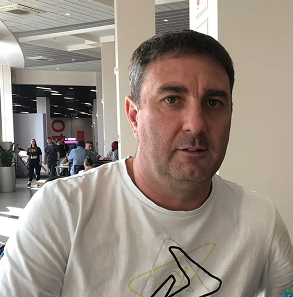
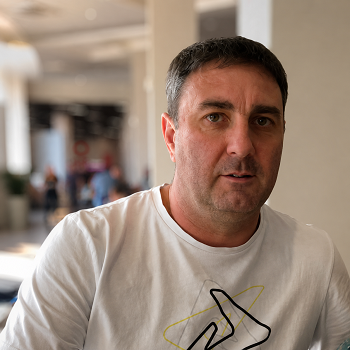
Real reviews, footer cleanup, hero parallax, updated host photo
- Swap placeholder reviews for 4 real guest reviews (3 Avito, 1 Cian); add Cian as a review source option
- Footer: align "Дом в роще" badge with header treatment, redesign emergency contacts box (2-column, line icons instead of emoji), widen nav column, rebalance grid spans
- Purge remaining "A-frame" mentions across gallery titles, hero alt/subhead, FAQ, mobile drawer — replaced with "треугольный" (factual) or the "Дом в роще" badge (brand mark)
- FinalCTA: heading now "Узнать свободные даты"
- Hero: scroll-linked parallax on the background image (image lags behind scrolling content), respects prefers-reduced-motion
- Update Sergey's photo (latest version)
- Rebuilt single-file index.html

diff --git a/src/data.ts b/src/data.ts
@@ -6,14 +6,14 @@ export const galleryPhotos: GalleryItem[] = [
     id: '1',
     url: '@HERO@',
     category: 'exterior',
-    title: 'Репка: A-frame и баня',
+    title: 'Репка: дом в роще и баня',
     description: 'Весь комплекс на одном кадре: треугольный домик, баня и просторная деревянная терраса среди берёз.'
   },
   {
     id: '2',
     url: '@FACADE@',
     category: 'exterior',
-    title: 'Фасад A-frame Репка',
+    title: 'Треугольный фасад Репки',
     description: 'Классический треугольный фасад с панорамным окном — визитная карточка домика.'
   },
   {
@@ -241,39 +241,39 @@ export const amenitiesList: Amenity[] = [
 export const reviewsList: Review[] = [
   {
     id: 'r1',
-    name: 'Екатерина',
-    date: 'Май 2026',
-    source: 'Авито',
-    rating: 5,
-    text: 'Восхитительное место! Березовая роща прямо под окном — это что-то невероятное. Утром выходишь на террасу с кофе, а кругом тишина и поют птицы. Домик абсолютно чистый, пахнет свежим деревом. Посуда качественная, постельное белье очень приятное. Баня просто супер, Сергей сам помог затопить и все показал. Обязательно вернемся осенью!',
-    avatar: 'ЕК'
-  },
-  {
-    id: 'r2',
-    name: 'Алексей',
-    date: 'Апрель 2026',
-    source: 'Суточно.ру',
-    rating: 5,
-    text: 'Отлично провели выходные с супругой. Домик небольшой, но эргономичный — для двоих идеально. Второй уровень со спальней очень уютный, тепло регулируется. Костровая зона сделана добротно, пожарили стейки при свете лампочек. До канала прошлись пешком буквально 5 минут. Прекрасная перезагрузка от московской суеты. Спасибо Сергею за гостеприимство!',
-    avatar: 'АЛ'
-  },
-  {
-    id: 'r3',
-    name: 'Мария и Влад',
-    date: 'Март 2026',
-    source: 'Авито',
-    rating: 5,
-    text: 'Приезжали с собакой корги. Очень порадовало, что домик дог-френдли. Участок просторный, чистый, собака была в восторге. Заселение бесконтактное по коду — невероятно удобно, не нужно никого ждать. В доме есть вообще все мелочи — от соли и масла до таблеток для посудомойки и халатов. Баня дровяная, жар держит отлично. 10 из 10!',
-    avatar: 'МВ'
-  },
-  {
-    id: 'r4',
-    name: 'Дмитрий',
+    name: 'Святослав',
     date: 'Февраль 2026',
     source: 'Авито',
     rating: 5,
-    text: 'Отмечали здесь день рождения небольшой компанией (4 человека). Места хватило всем, диван в гостиной разбирается. Баня невероятная, напарились от души. Катались на лыжах — до горнолыжек Яхромы доехали минут за 40 на машине. Сергей — очень отзывчивый хозяин, всегда на связи, на любые вопросы отвечал моментально. Рекомендую однозначно!',
-    avatar: 'ДМ'
+    text: 'Замечательный дом и классная баня! Отдыхали с женой на 14 февраля, всё понравилось, особенно баня) В доме чисто, всё есть. Классно отдохнули и провели время, большое спасибо!)',
+    avatar: 'СВ'
+  },
+  {
+    id: 'r2',
+    name: 'Венедикт',
+    date: 'Август 2025',
+    source: 'Авито',
+    rating: 5,
+    text: 'Отличная локация, дом и территория в идеальном состоянии, есть все необходимое для отдыха семьей из 2-4 человек. Велотрасса в шаговой доступности. В доме есть все необходимое для тихого спокойного и комфортного отдыха!',
+    avatar: 'В'
+  },
+  {
+    id: 'r3',
+    name: 'Элеонора Ким',
+    date: 'Июль 2025',
+    source: 'Авито',
+    rating: 5,
+    text: 'Искали уютное место где провести выходные, наткнулись на это объявление и не прогадали. Домик уютный, всё необходимое есть, в живую даже лучше чем на фото. Если хотите уединиться и отдохнуть, то вам обязательно сюда) Рекомендую! Сергей, спасибо Вам большое за гостеприимство!',
+    avatar: 'ЭК'
+  },
+  {
+    id: 'r4',
+    name: 'Михаил',
+    date: 'Март 2026',
+    source: 'Циан',
+    rating: 5,
+    text: 'Добродушный и отзывчивый хозяин, оперативное заселение. Сам дом небольшой, но очень уютный, все необходимое есть в наличии (столовые приборы, техника и пр.). Участок расположен в тихом и спокойном СНТ, соседи супер вежливые. Баня оплачивается отдельно, внутри бани тоже всё предусмотрено для комфортного отдыха гостей. Рядом проходит «Вело-1», летом можно покататься на велосипеде, зимой на лыжах. Снимал с женой, ей все понравилось, однозначно рекомендуем для пар, которые любят тихий и спокойный отдых вдвоем.',
+    avatar: 'МИ'
   }
 ];
 
@@ -301,7 +301,7 @@ export const faqList: FAQItem[] = [
   {
     id: 'f5',
     question: 'Я буду один на территории или есть соседи/хозяева?',
-    answer: 'Весь участок площадью 10 соток, окруженный березовой рощей, полностью принадлежит только вам! На нем расположен один A-frame домик и баня. Никаких других гостевых домов, соседей, хозяев или обслуживающего персонала на участке нет. Вы будете в абсолютном уединении.'
+    answer: 'Весь участок площадью 10 соток, окруженный березовой рощей, полностью принадлежит только вам! На нем расположен один треугольный домик и баня. Никаких других гостевых домов, соседей, хозяев или обслуживающего персонала на участке нет. Вы будете в абсолютном уединении.'
   },
   {
     id: 'f6',

diff --git a/src/components/Footer.tsx b/src/components/Footer.tsx
@@ -31,7 +31,7 @@ export default function Footer() {
             <span className="font-serif italic font-bold text-3xl leading-none tracking-tight text-white select-none">
               Репка
             </span>
-            <span className="text-xs leading-none uppercase tracking-widest font-mono border border-white/20 text-white/70 px-1.5 py-1 rounded flex items-center">
+            <span className="text-xs leading-none uppercase tracking-widest font-mono border border-white/20 text-white/70 px-1.5 py-1 rounded flex items-center translate-y-[2px]">
               Дом в роще
             </span>
           </div>
@@ -45,8 +45,8 @@ export default function Footer() {
           </div>
         </div>
 
-        {/* Col 2: Navigation Links (2.5 cols) */}
-        <div className="md:col-span-2.5 space-y-4">
+        {/* Col 2: Navigation Links (3 cols) */}
+        <div className="md:col-span-3 space-y-4">
           <span className="text-xs font-mono font-bold tracking-widest text-brand-sand block">НАВИГАЦИЯ</span>
           <ul className="space-y-2.5 text-xs sm:text-sm font-medium">
             {[
@@ -73,8 +73,8 @@ export default function Footer() {
           </ul>
         </div>
 
-        {/* Col 3: Direct Address & Contacts details (3 cols) */}
-        <div className="md:col-span-3 space-y-4 text-left">
+        {/* Col 3: Direct Address & Contacts details (2.5 cols) */}
+        <div className="md:col-span-2.5 space-y-4 text-left">
           <span className="text-xs font-mono font-bold tracking-widest text-brand-sand block">КОНТАКТЫ И АДРЕС</span>
           <div className="space-y-3.5 text-xs sm:text-sm text-brand-bg/85 font-light leading-relaxed">
             
@@ -122,22 +122,24 @@ export default function Footer() {
         {/* Col 4: Emergencies contact box (2.5 cols) */}
         <div className="md:col-span-2.5 space-y-4">
           <span className="text-xs font-mono font-bold tracking-widest text-brand-sand block">СЛУЖБЫ СПАСЕНИЯ</span>
-          <div className="bg-white/5 p-4 rounded border border-white/5 space-y-3 text-xs">
-            <a href="tel:112" className="flex items-center justify-between gap-3 group">
-              <span className="flex items-center gap-2 font-light text-brand-bg/80 group-hover:text-white transition-colors">
-                <Siren size={14} className="text-brand-accent shrink-0" />
-                МЧС
-              </span>
-              <span className="font-mono font-bold text-white group-hover:text-brand-accent transition-colors">112</span>
-            </a>
-            <a href="tel:103" className="flex items-center justify-between gap-3 group">
-              <span className="flex items-center gap-2 font-light text-brand-bg/80 group-hover:text-white transition-colors">
-                <Stethoscope size={14} className="text-brand-accent shrink-0" />
-                Скорая
-              </span>
-              <span className="font-mono font-bold text-white group-hover:text-brand-accent transition-colors">103</span>
-            </a>
-            <div className="h-[1px] bg-white/10" />
+          <div className="bg-white/5 p-4 rounded border border-white/5 text-xs">
+            <div className="grid grid-cols-2 gap-3">
+              <a href="tel:112" className="flex flex-col gap-1.5 group">
+                <span className="flex items-center gap-1.5 font-light text-brand-bg/70 group-hover:text-white transition-colors">
+                  <Siren size={13} className="text-brand-accent shrink-0" />
+                  МЧС
+                </span>
+                <span className="font-mono font-bold text-white text-base group-hover:text-brand-accent transition-colors">112</span>
+              </a>
+              <a href="tel:103" className="flex flex-col gap-1.5 group">
+                <span className="flex items-center gap-1.5 font-light text-brand-bg/70 group-hover:text-white transition-colors">
+                  <Stethoscope size={13} className="text-brand-accent shrink-0" />
+                  Скорая
+                </span>
+                <span className="font-mono font-bold text-white text-base group-hover:text-brand-accent transition-colors">103</span>
+              </a>
+            </div>
+            <div className="h-[1px] bg-white/10 my-3" />
             <p className="text-[10px] text-brand-bg/40 leading-normal font-light">
               Адрес хорошо известен местным службам доставки и такси.
             </p>

diff --git a/src/components/Hero.tsx b/src/components/Hero.tsx
@@ -1,5 +1,6 @@
+import { useRef } from 'react';
 import { ArrowDown, Send, Image } from 'lucide-react';
-import { motion } from 'motion/react';
+import { motion, useScroll, useTransform, useReducedMotion } from 'motion/react';
 import heroImage from '../assets/images/hero.png';
 import ContactPopover from './ContactPopover';
 
@@ -10,22 +11,29 @@ interface HeroProps {
 }
 
 export default function Hero({ onGalleryClick }: HeroProps) {
+  const heroRef = useRef<HTMLDivElement>(null);
+  const shouldReduceMotion = useReducedMotion();
+  const { scrollYProgress } = useScroll({ target: heroRef, offset: ['start start', 'end start'] });
+  const imageY = useTransform(scrollYProgress, [0, 1], shouldReduceMotion ? ['0px', '0px'] : ['0px', '150px']);
+
   return (
     <div
       id="hero-section"
+      ref={heroRef}
       className="relative w-full h-screen min-h-[600px] flex items-center justify-center overflow-hidden bg-brand-bg-dark bg-grain"
     >
-      {/* Background Image Container */}
-      <div className="absolute inset-0 z-0">
-        <img
+      {/* Background Image Container — slightly oversized to cover the parallax shift */}
+      <div className="absolute -top-[200px] -bottom-[200px] inset-x-0 z-0 overflow-hidden">
+        <motion.img
           src={HERO_IMAGE_PATH}
-          alt="A-frame домик Репка в берёзовой роще"
-          className="w-full h-full object-cover object-center scale-[1.02]"
+          alt="Треугольный домик Репка в берёзовой роще"
+          style={{ y: imageY }}
+          className="w-full h-full object-cover object-center"
           referrerPolicy="no-referrer"
         />
-        {/* Natural gradient overlays to blend into text and maintain accessibility */}
-        <div className="absolute inset-0 bg-gradient-to-t from-brand-bg-dark via-brand-bg-dark/40 to-brand-bg-dark/60 z-10" />
       </div>
+      {/* Natural gradient overlays to blend into text and maintain accessibility — sized to the actual viewport, not the oversized image box */}
+      <div className="absolute inset-0 bg-gradient-to-t from-brand-bg-dark via-brand-bg-dark/40 to-brand-bg-dark/60 z-10" />
 
       {/* Main Text Content */}
       <div className="relative z-20 max-w-4xl mx-auto px-6 text-center text-brand-bg-white flex flex-col items-center justify-center">
@@ -58,7 +66,7 @@ export default function Hero({ onGalleryClick }: HeroProps) {
           transition={{ duration: 1.2, delay: 0.4, ease: 'easeOut' }}
           className="font-sans text-brand-bg/90 max-w-2xl text-base sm:text-lg md:text-xl leading-relaxed mb-10 font-light"
         >
-          63 км от Москвы · Новый A-frame дом 2024 года · Дровяная баня · Огневая зона · Канал им. Москвы в 300 метрах
+          63 км от Москвы · Новый треугольный дом 2024 года · Дровяная баня · Огневая зона · Канал им. Москвы в 300 метрах
         </motion.p>
 
         {/* Dual Actions CTAs */}

diff --git a/src/components/Header.tsx b/src/components/Header.tsx
@@ -66,7 +66,7 @@ export default function Header() {
               Репка
               <span className={`absolute bottom-0 left-0 w-0 h-[2px] transition-all duration-300 group-hover:w-full ${scrolled ? 'bg-brand-accent' : 'bg-white'}`}></span>
             </span>
-            <span className={`text-xs leading-none uppercase tracking-widest font-mono border px-1.5 py-1 rounded flex items-center ${scrolled ? 'border-brand-green/30 text-brand-green' : 'border-white/30 text-white/80'}`}>
+            <span className={`text-xs leading-none uppercase tracking-widest font-mono border px-1.5 py-1 rounded flex items-center translate-y-[2px] ${scrolled ? 'border-brand-green/30 text-brand-green' : 'border-white/30 text-white/80'}`}>
               Дом в роще
             </span>
           </a>
@@ -152,8 +152,11 @@ export default function Header() {
             >
               <div>
                 <div className="flex items-center justify-between mb-10 pb-6 border-b border-brand-sand/30">
-                  <span className="font-serif italic font-bold text-2xl text-brand-text-mid">
-                    Репка <span className="text-brand-accent">A-frame</span>
+                  <span className="font-serif italic font-bold text-2xl text-brand-text-mid flex items-center gap-2">
+                    Репка
+                    <span className="text-[10px] leading-none uppercase tracking-widest font-mono border border-brand-green/30 text-brand-green px-1.5 py-1 rounded translate-y-[2px]">
+                      Дом в роще
+                    </span>
                   </span>
                   <button
                     onClick={() => setMobileMenuOpen(false)}

diff --git a/src/components/Reviews.tsx b/src/components/Reviews.tsx
@@ -62,7 +62,9 @@ export default function Reviews() {
                   <span className={`text-[10px] font-mono tracking-wide px-2.5 py-0.5 rounded border ${
                     review.source === 'Авито'
                       ? 'border-blue-500/20 text-blue-600 bg-blue-500/5'
-                      : 'border-brand-accent/20 text-brand-accent bg-brand-accent/5'
+                      : review.source === 'Циан'
+                        ? 'border-brand-green/30 text-brand-green bg-brand-green/5'
+                        : 'border-brand-accent/20 text-brand-accent bg-brand-accent/5'
                   }`}>
                     {review.source}
                   </span>

diff --git a/src/components/FinalCTA.tsx b/src/components/FinalCTA.tsx
@@ -41,7 +41,7 @@ export default function FinalCTA() {
                 <span className="text-xs uppercase font-mono tracking-widest font-semibold">Ваш хозяин Сергей</span>
               </div>
               <h2 className="font-serif italic font-normal text-3xl sm:text-5xl text-white leading-tight tracking-tight">
-                Проверить свободные даты
+                Узнать свободные даты
               </h2>
               <p className="text-xs sm:text-sm text-brand-bg/80 leading-relaxed font-light max-w-xl">
                 Напишите мне в мессенджер — с радостью подберу свободные даты, помогу рассчитать персональную скидку на длительный заезд и отвечу на любые вопросы. Почти всегда отвечаю в течение получаса!

diff --git a/src/types.ts b/src/types.ts
@@ -19,7 +19,7 @@ export interface Review {
   id: string;
   name: string;
   date: string;
-  source: 'Авито' | 'Суточно.ру';
+  source: 'Авито' | 'Суточно.ру' | 'Циан';
   rating: number;
   text: string;
   avatar?: string;